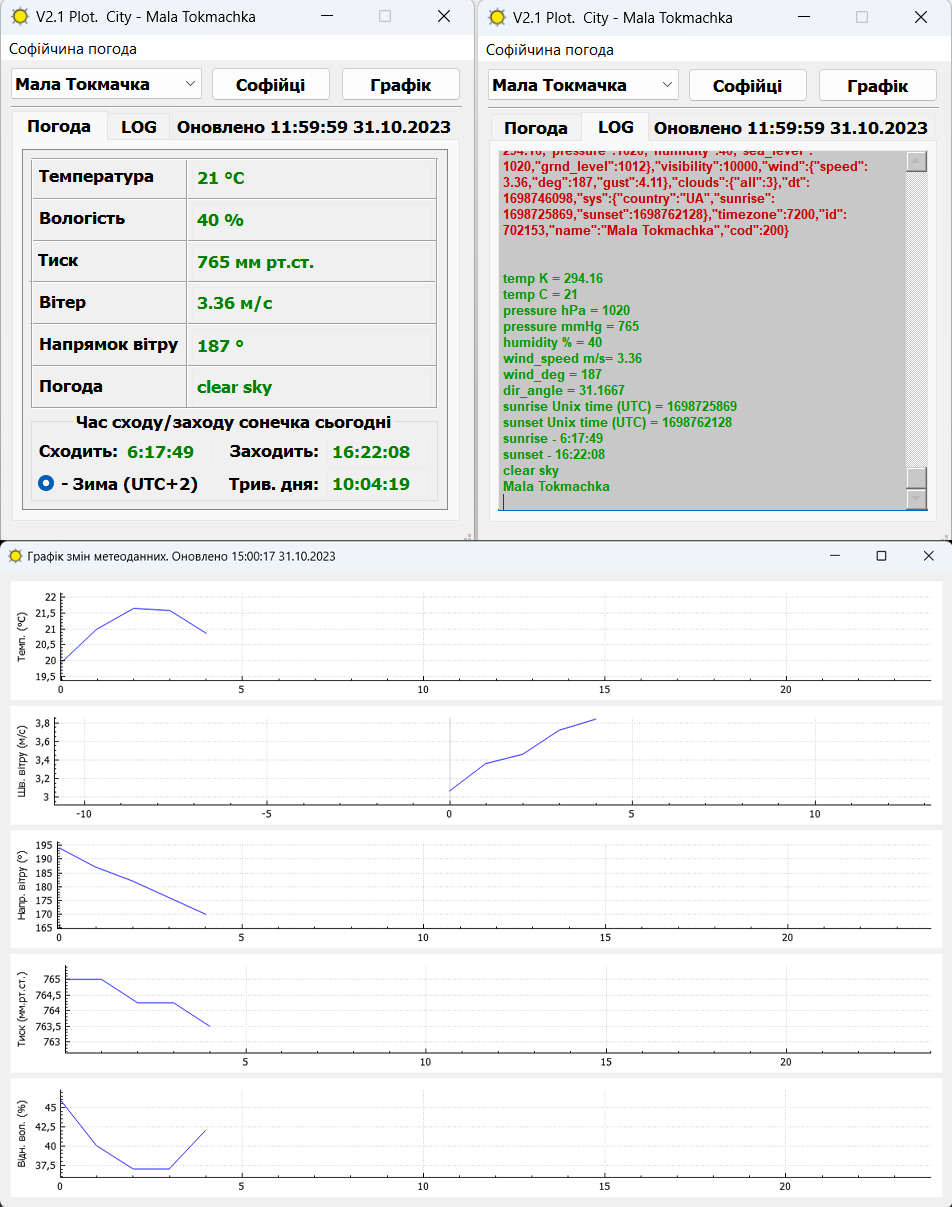
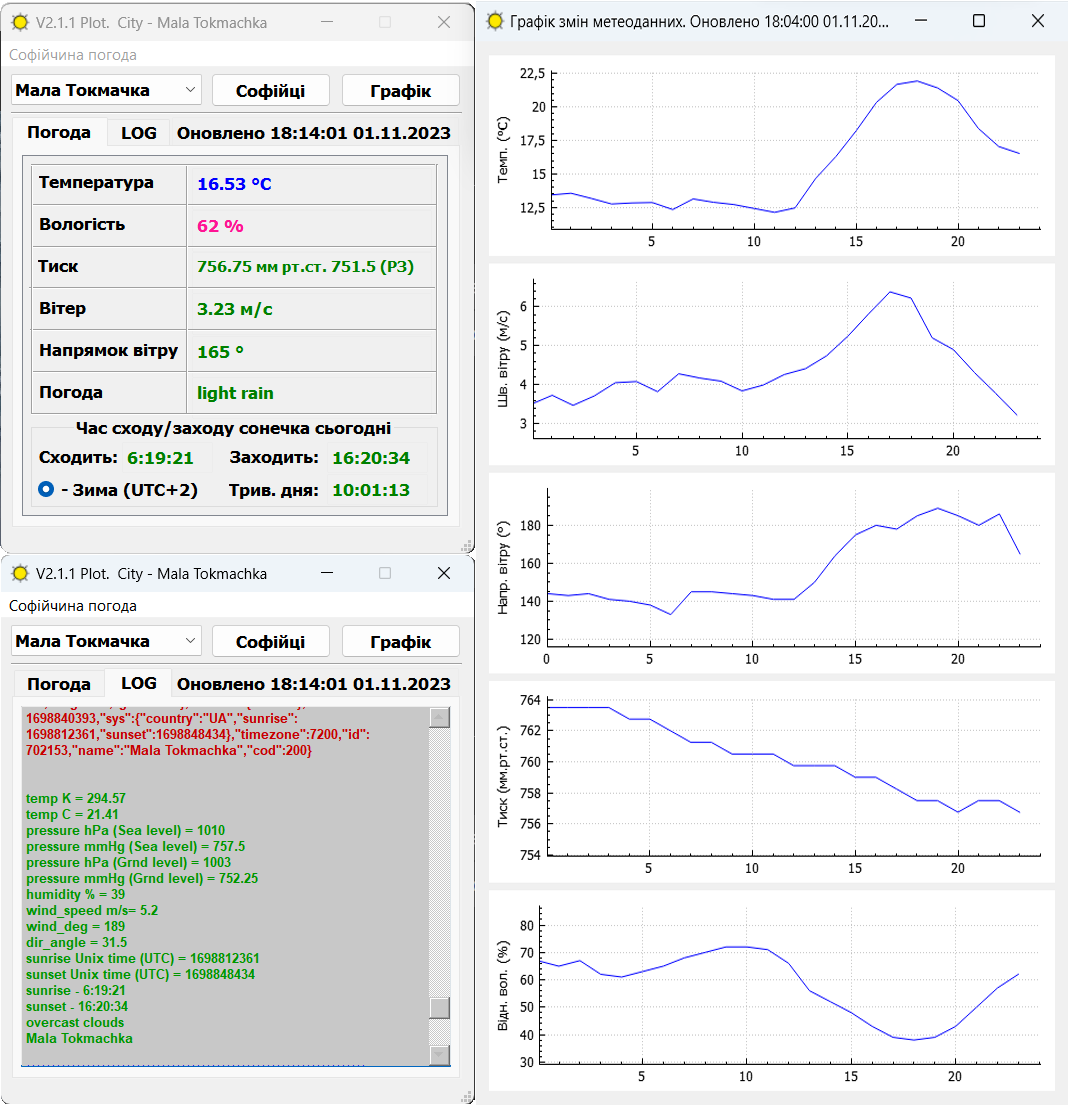
image update, minor apdate pressure wiew

diff --git a/parser_request.cpp b/parser_request.cpp
@@ -204,7 +204,8 @@ void MainWindow::parser_request (QString data ){
     ui->textEdit_pressure->setFontWeight(QFont::Bold);
     ui->textEdit_pressure->setTextColor("green");
     ui->textEdit_pressure->setFontPointSize(9);
-    ui->textEdit_pressure->append(QString::number(weather1.pressure*0.750) + " мм рт.ст. " + QString::number(grnd_level*0.75) + " (РЗ)");   //grnd_level*0.75
+    ui->textEdit_pressure->append(QString::number(weather1.pressure*0.750) + " мм рт.ст. " +
+                                  "(" +QString::number(grnd_level*0.75) + " РЗ)");   //grnd_level*0.75
 
     ui->textEdit_wind->clear();
     ui->textEdit_wind->setFontWeight(QFont::Bold);
